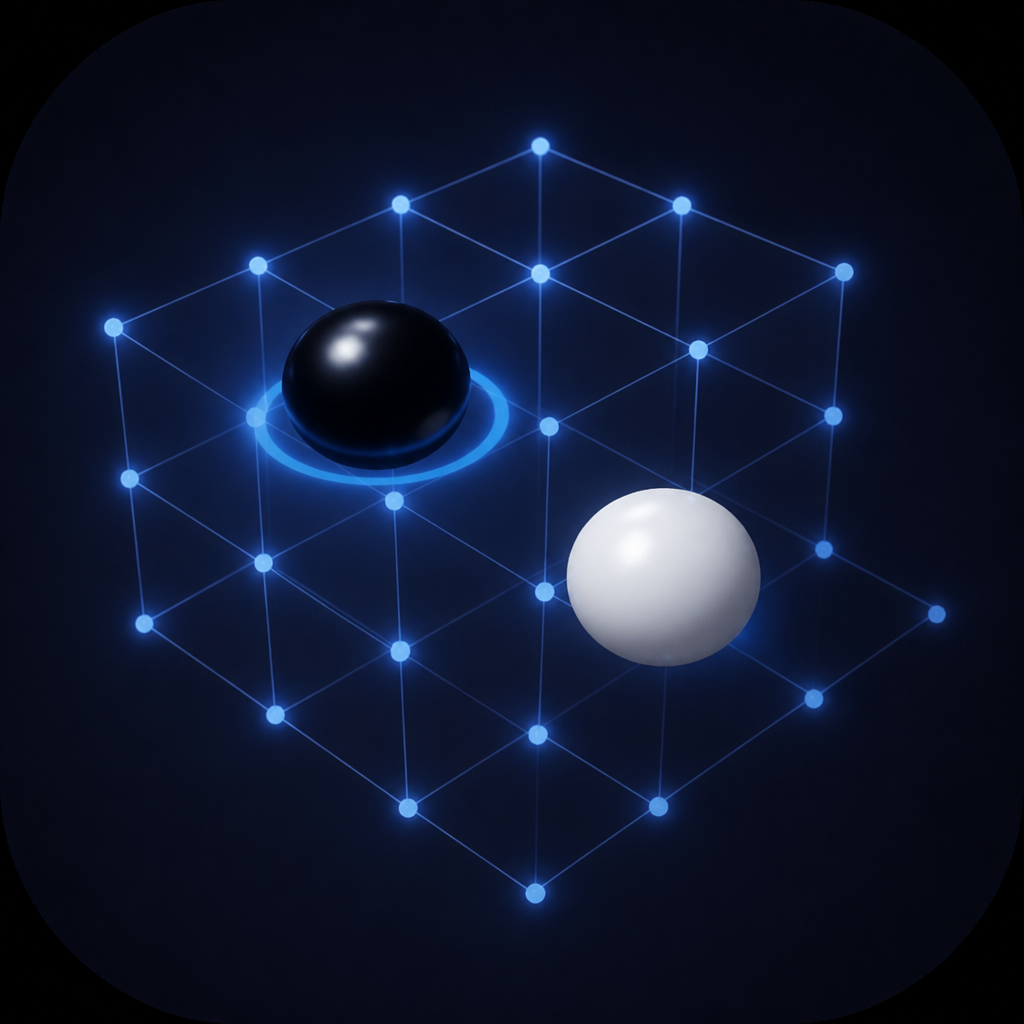
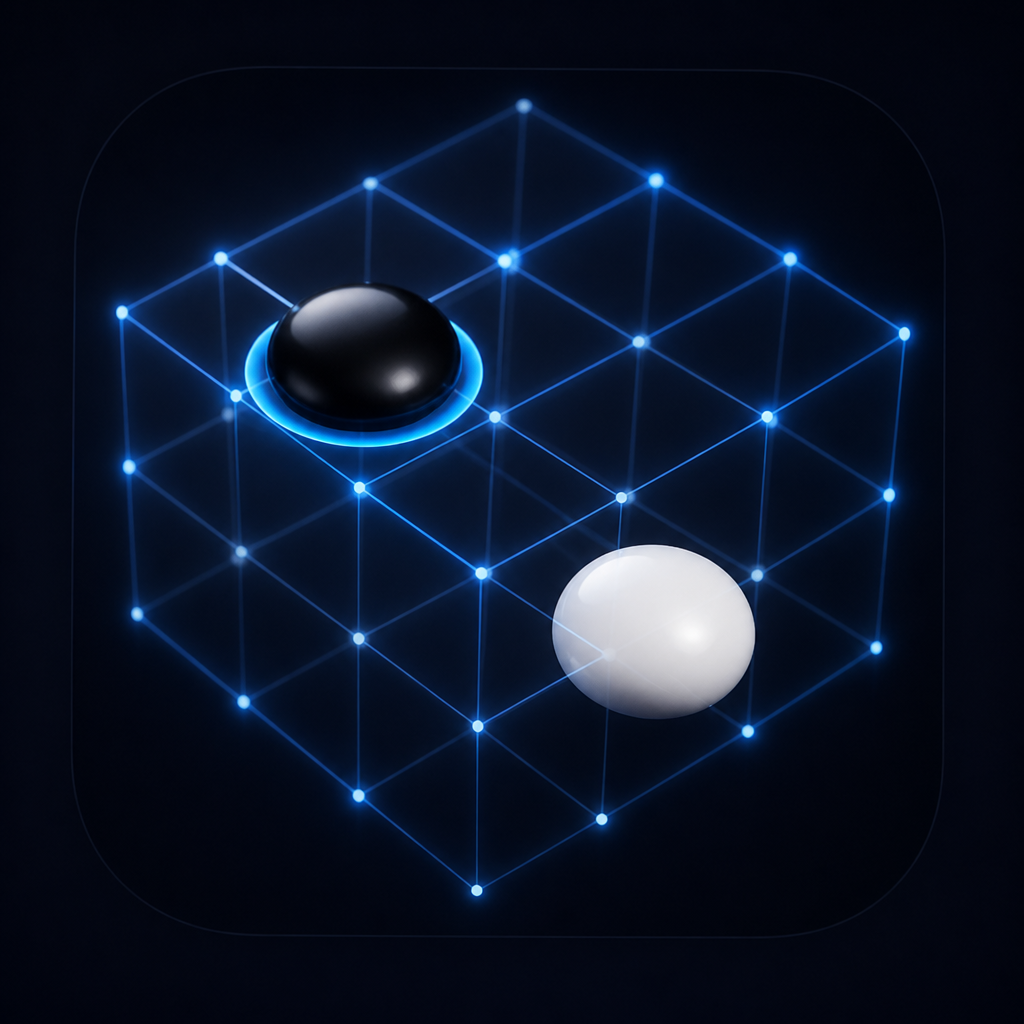
Update help overlay with new features; mark TESTING §6/§7 done
- Help text: add 'After the game ends' section (score card, territory
  painting, Hide territory / Rematch / Leave game buttons)
- Help text: komi note now explains per-board-size scaling (1.5–7.5)
- Help text: board size cap updated to 11×11×11 (PvP-only note added)
- Help text: Playing online section now describes Copy invite link flow
- TESTING.md: mark §6 UI/UX polish and §7 edge cases as verified
- public/icon.png: optimised file size (1.03 MB → 867 KB)
- .firebaserc: add Firebase project config

Changed region(s): [[0.0625, 0.0938, 0.9375, 0.9062]]

diff --git a/index.html b/index.html
@@ -865,7 +865,13 @@
         <h3>Scoring</h3>
         <p><b>Captures</b> — stones you have taken.<br>
            <b>Territory</b> — empty intersections completely surrounded by your colour.<br>
-           <b>Komi</b> — White gets +6.5 bonus points to compensate for Black moving first.</p>
+           <b>Komi</b> — White gets a bonus to compensate for Black moving first. It scales with board size (1.5 on 3³ up to 7.5 on 11³) and is applied automatically.</p>
+
+        <h3>After the game ends</h3>
+        <p>A <b>score card</b> appears in the top-right corner showing captures, territory, komi, and the final result. The board stays visible with <b>territory painted</b> in colour — Blue/amber (light theme) or blue/grey (dark theme) — so you can see exactly who owned what.<br><br>
+           Tap <b>Hide territory</b> to toggle the markers on or off.<br>
+           In <b>offline games</b> tap <b>New game</b> to start fresh.<br>
+           In <b>online games</b> tap <b>Rematch</b> to challenge your opponent again (they can accept or decline), or <b>Leave game</b> to exit.</p>
 
         <h3>Controls</h3>
         <p><b>Tap / click</b> — place a stone.<br>
@@ -888,7 +894,7 @@
            Change it any time in <b>⚙️ Settings → AI DIFFICULTY</b>.</p>
 
         <h3>Settings ⚙️</h3>
-        <p>Tap <b>⚙️</b> to change board size (3×3×3 up to 9×9×9), game mode, AI difficulty, scoring method, sound, and colour theme.</p>
+        <p>Tap <b>⚙️</b> to change board size (3×3×3 up to 11×11×11), game mode, AI difficulty, scoring method, sound, and colour theme. The 11×11×11 board is available in online PvP only.</p>
 
         <h3>Install as an app</h3>
         <p>Tap <b>⬇ Install</b> in ⚙️ Settings (or the install banner at the bottom of the screen) to add Go 3D to your home screen or desktop. Once installed, you can play single-player modes (PvP, PvC, CvC) <b>offline</b> — no internet needed. Online games still require a connection.</p>
@@ -902,9 +908,11 @@
 
         <h3>Playing online</h3>
         <p>Open <b>⚙️ Settings</b> and tap <b>🌐 Play Online →</b>.<br><br>
-           <b>To host a game:</b> sign in with Google, then tap <b>✦ Create game</b>. Creating a game requires a one-time <b>€1 payment</b> — paid once, valid forever. Share the 6-letter room code with your friend.<br><br>
-           <b>To join a game:</b> enter the 6-letter code and tap <b>Join game →</b>. Joining is always <b>free</b>.<br><br>
-           You play <b>Black</b> as host and <b>White</b> as guest. Moves sync instantly. Tap <b>💬</b> for in-game chat. Tap <b>Leave</b> to exit.</p>
+           <b>To host a game:</b> sign in with Google, then tap <b>✦ Create game</b>. Creating a game requires a one-time <b>€1 payment</b> — paid once, valid forever.<br><br>
+           <b>Invite your friend</b> in two ways:<br>
+           • Tap <b>Copy invite link</b> in the waiting screen and send the link — your friend just taps it and lands straight in your game, no code needed.<br>
+           • Or share the 6-letter <b>room code</b> manually; your friend enters it and taps <b>Join game →</b>.<br><br>
+           Joining is always <b>free</b>. You play <b>Black</b> as host and <b>White</b> as guest. Moves sync instantly. Tap <b>💬</b> for in-game chat.</p>
 
         <button id="helpClose">Got it</button>
       </div>